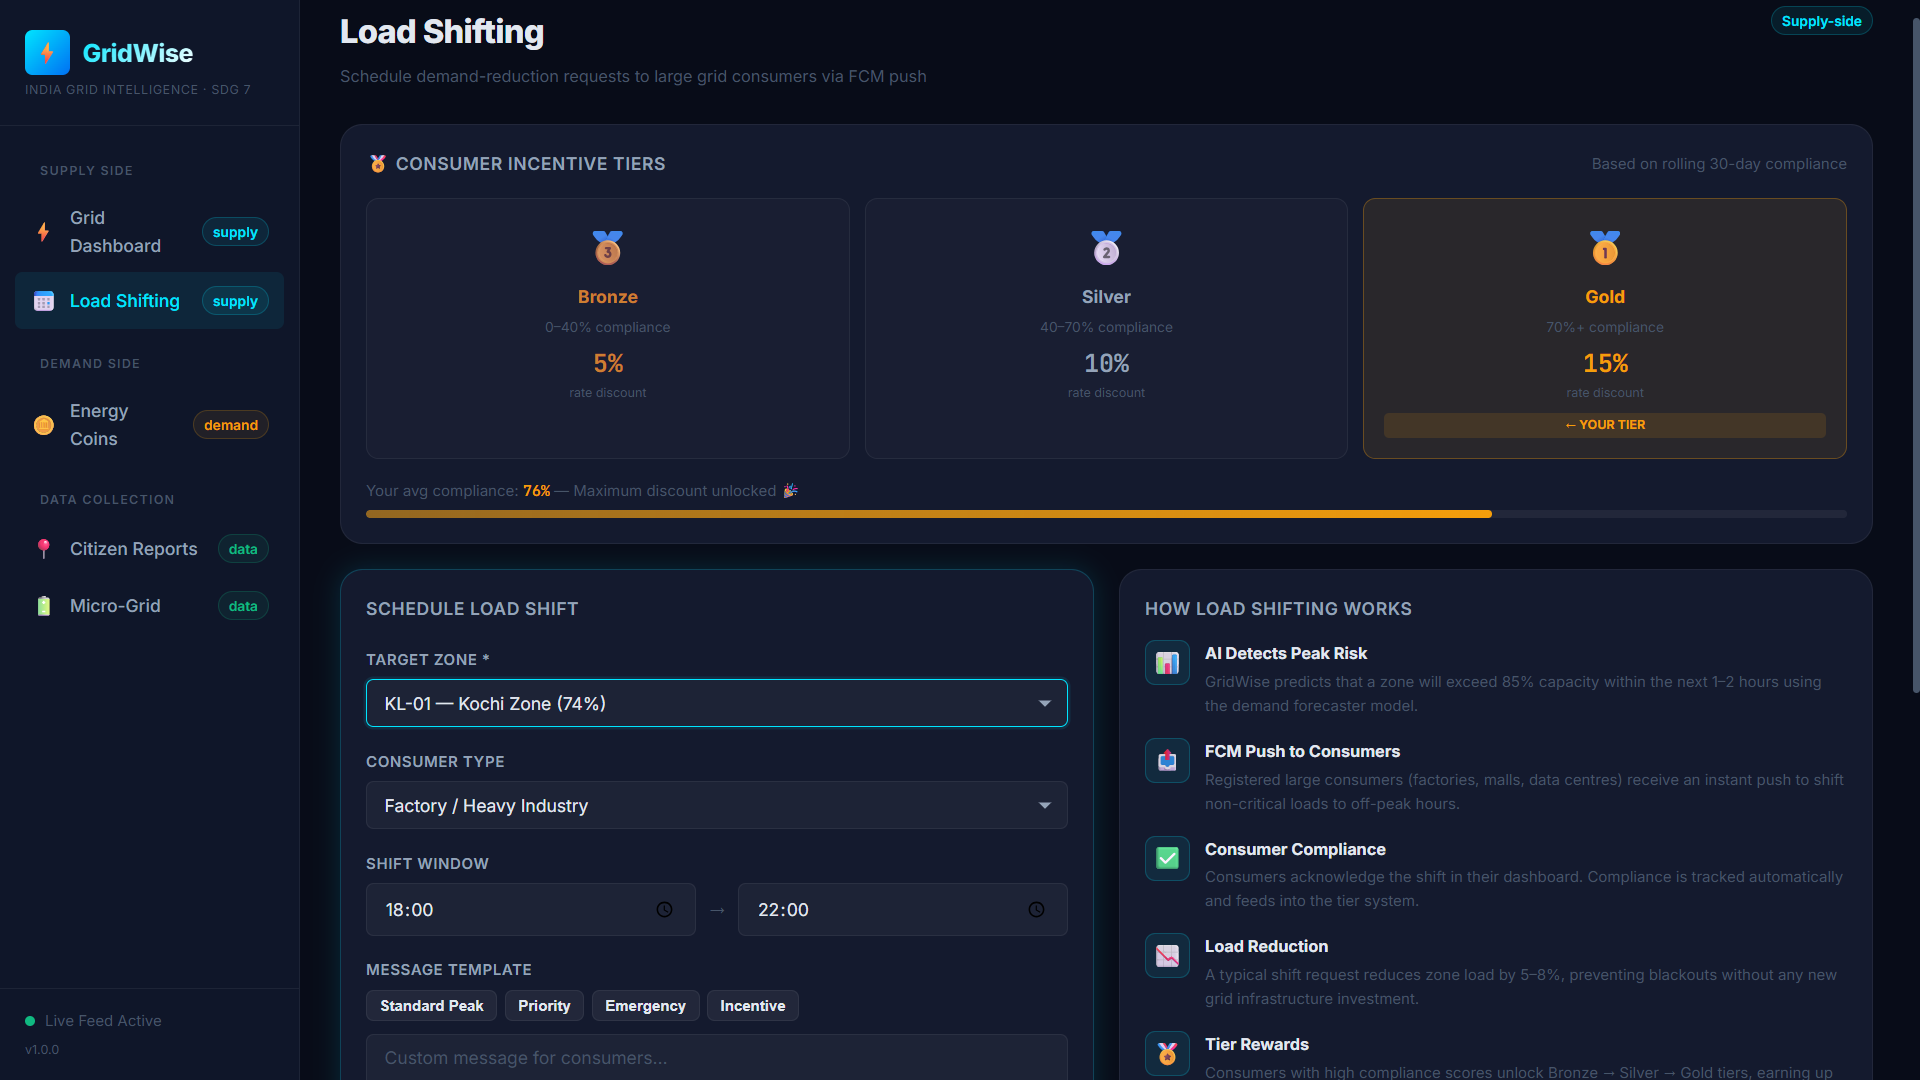
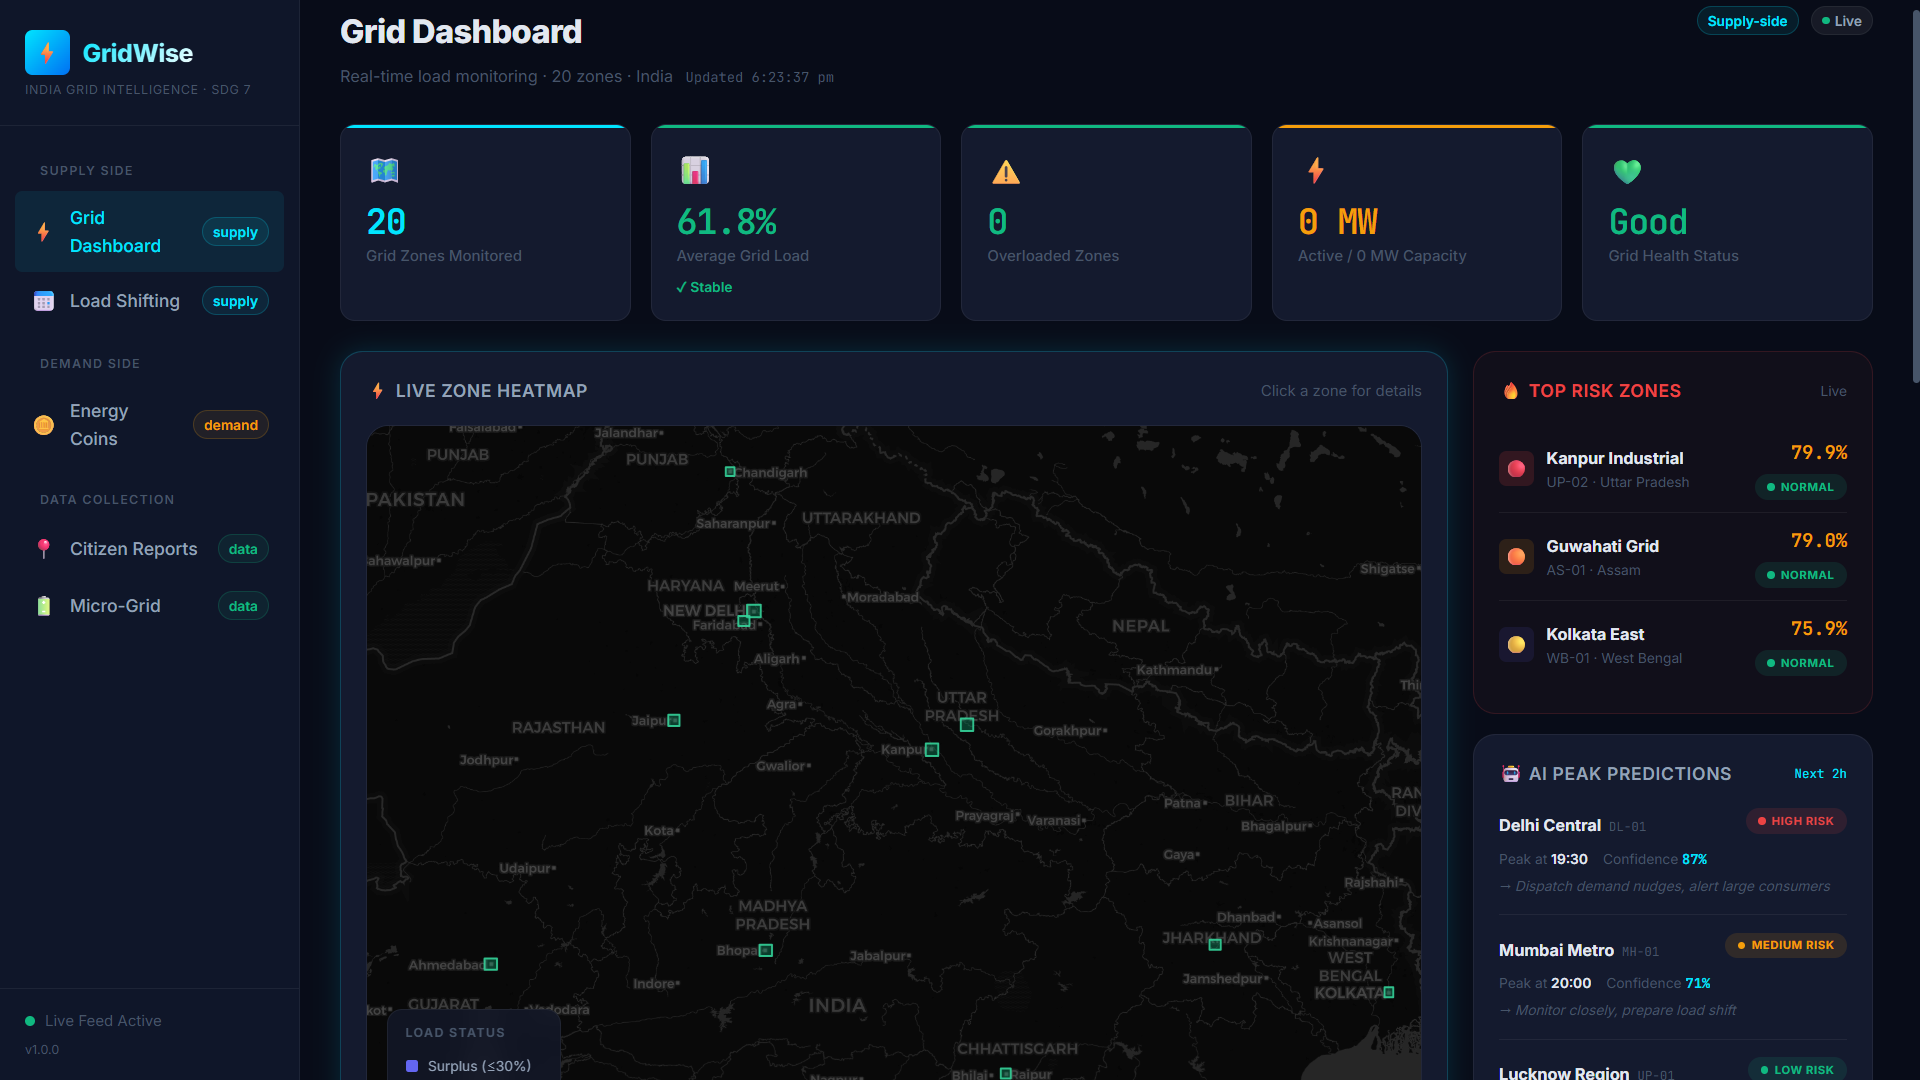
docs: swap homepage screenshot

diff --git a/README.md b/README.md
@@ -25,7 +25,7 @@ GridWise tackles India's real-time supply-demand mismatch by combining **operato
 
 | Additional View 1 | Additional View 2 |
 |---|---|
-| ![View 1](screenshots/extra1.png) | ![View 2](screenshots/extra2.png) |
+| ![View 1](screenshots/dashboard_alt.png) | ![View 2](screenshots/extra2.png) |
 | Detailed panel or feature view | Detailed panel or feature view |
 
 ---
